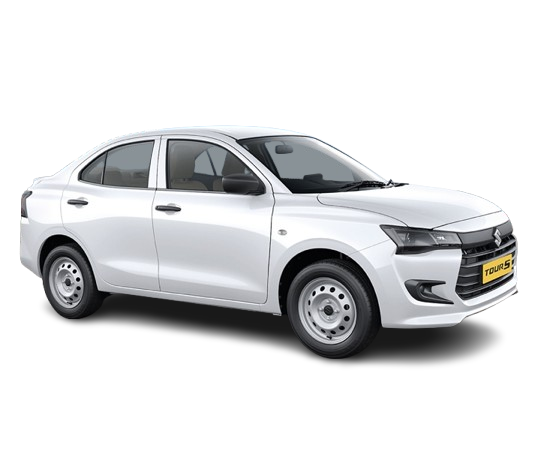
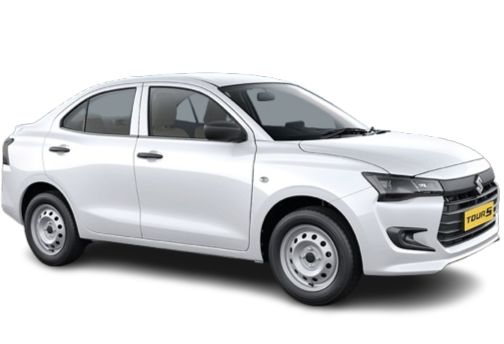
Updated hero section

diff --git a/service.html b/service.html
@@ -27,7 +27,7 @@
                 <div class="services-detailed">
                     <article class="service-item">
                         <div class="service-image">
-                            <img src="./assets/images/herobackround.jpg" 
+                            <img src="./assets/images/serviceone.jpg" 
                                  alt="Airport transfer service showing modern airport terminal" 
                                  loading="lazy"
                                  width="1900" 
@@ -139,7 +139,7 @@
                     <!-- Economy Cars -->
                     <div class="vehicle-card">
                         <div class="vehicle-img">
-                            <img src="./assets/images/swiftdziretour.png" 
+                            <img src="./assets/images/SwiftDzire.png" 
                                  alt="Swift Dzire - Economy sedan perfect for city travel" 
                                  class="vehicle-img"
                                  loading="lazy"
@@ -153,7 +153,7 @@
                                 <span><i class="fas fa-suitcase" aria-hidden="true"></i> 2 Bags</span>
                             </div>
                             <p>Perfect for short trips within the city</p>
-                            <div class="vehicle-price">₹12/km</div>
+                            <div class="vehicle-price">₹899</div>
                             <a href="https://wa.me/918618429796?text=Hi, I want to book Swift Dzire" 
                                class="fbtn" 
                                target="_blank" 
@@ -175,7 +175,7 @@
                                 <span><i class="fas fa-suitcase" aria-hidden="true"></i> 3 Bags</span>
                             </div>
                             <p>Comfortable ride for business or leisure</p>
-                            <div class="vehicle-price">₹15/km</div>
+                            <div class="vehicle-price">₹899</div>
                             <a href="https://wa.me/918618429796?text=Hi, I want to book Hyundai Accent" 
                                class="fbtn" 
                                target="_blank" 
@@ -197,7 +197,7 @@
                                 <span><i class="fas fa-suitcase" aria-hidden="true"></i> 5 Bags</span>
                             </div>
                             <p>Spacious for families or groups</p>
-                            <div class="vehicle-price">₹18/km</div>
+                            <div class="vehicle-price">₹899</div>
                             <a href="https://wa.me/918618429796?text=Hi, I want to book Toyota Innova Crysta" 
                                class="fbtn" 
                                target="_blank" 
@@ -219,8 +219,8 @@
                                 <span><i class="fas fa-users" aria-hidden="true"></i> 4 Seater</span>
                                 <span><i class="fas fa-suitcase" aria-hidden="true"></i> 3 Bags</span>
                             </div>
-                            <p>Premium experience for special occasions</p>
-                            <div class="vehicle-price">₹25/km</div>
+                            <p>  special occasions</p>
+                            <div class="vehicle-price">₹899</div>
                             <a href="https://wa.me/918618429796?text=Hi, I want to book Toyota Etios" 
                                class="fbtn" 
                                target="_blank" 
@@ -241,8 +241,8 @@
                                 <span><i class="fas fa-users" aria-hidden="true"></i> 6-7 Seater</span>
                                 <span><i class="fas fa-suitcase" aria-hidden="true"></i> 5 Bags</span>
                             </div>
-                            <p>Luxury and space combined</p>
-                            <div class="vehicle-price">₹30/km</div>
+                            <p>Large families, luxury & space</p>
+                            <div class="vehicle-price">₹1800</div>
                             <a href="https://wa.me/918618429796?text=Hi, I want to book Maruti Suzuki Ertiga" 
                                class="fbtn" 
                                target="_blank" 
@@ -251,17 +251,20 @@
                     </div>
 
                     <div class="vehicle-card">
-                        <div class="vehicle-img">
-                            <i class="fas fa-crown" aria-hidden="true"></i>
-                        </div>
+                        <img src="./assets/images/TempoTravellerNonAC.jpg" 
+                             alt="Maruti Suzuki Ertiga - 7-seater MPV for large families" 
+                             class="vehicle-img"
+                             loading="lazy"
+                             width="300" 
+                             height="200">
                         <div class="vehicle-info">
-                            <h3>Executive Car</h3>
+                            <h3>Tempo Traveller Non AC</h3>
                             <div class="vehicle-specs">
-                                <span><i class="fas fa-users" aria-hidden="true"></i> 4 Seater</span>
-                                <span><i class="fas fa-suitcase" aria-hidden="true"></i> 4 Bags</span>
+                                <span><i class="fas fa-users" aria-hidden="true"></i> 12+1 Seater</span>
+                                <span><i class="fas fa-suitcase" aria-hidden="true"></i> 8 Bags</span>
                             </div>
-                            <p>Top-tier luxury for VIP travel</p>
-                            <div class="vehicle-price">₹35/km</div>
+                            <p>Tempo Traveller Rentals</p>
+                            <div class="vehicle-price">₹3500</div>
                             <a href="https://wa.me/918618429796?text=Hi, I want to book Executive Car" 
                                class="fbtn" 
                                target="_blank" 
@@ -271,17 +274,20 @@
 
                     <!-- Group Transport -->
                     <div class="vehicle-card">
-                        <div class="vehicle-img">
-                            <i class="fas fa-bus" aria-hidden="true"></i>
-                        </div>
+                       <img src="./assets/images/hycross.jpg" 
+                             alt="Maruti Suzuki Ertiga - 7-seater MPV for large families" 
+                             class="vehicle-img"
+                             loading="lazy"
+                             width="300" 
+                             height="200">
                         <div class="vehicle-info">
-                            <h3>Mini Bus</h3>
+                            <h3>Innova Crysta Hycross AC</h3>
                             <div class="vehicle-specs">
-                                <span><i class="fas fa-users" aria-hidden="true"></i> 12 Seater</span>
-                                <span><i class="fas fa-suitcase" aria-hidden="true"></i> 8 Bags</span>
+                                <span><i class="fas fa-users" aria-hidden="true"></i> 8 Seater</span>
+                                <span><i class="fas fa-suitcase" aria-hidden="true"></i> 4 Bags</span>
                             </div>
-                            <p>Perfect for group travels and tours</p>
-                            <div class="vehicle-price">₹22/km</div>
+                            <p>Premium family travel </p>
+                            <div class="vehicle-price">₹3000</div>
                             <a href="https://wa.me/918618429796?text=Hi, I want to book Mini Bus" 
                                class="fbtn" 
                                target="_blank" 
@@ -290,17 +296,20 @@
                     </div>
 
                     <div class="vehicle-card">
-                        <div class="vehicle-img">
-                            <i class="fas fa-shuttle-van" aria-hidden="true"></i>
-                        </div>
+                        <img src="./assets/images/MahindraXylo.png" 
+                             alt="Maruti Suzuki Ertiga - 7-seater MPV for large families" 
+                             class="vehicle-img"
+                             loading="lazy"
+                             width="300" 
+                             height="200">
                         <div class="vehicle-info">
-                            <h3>Tempo Traveller</h3>
+                            <h3>Mahindra Xylo</h3>
                             <div class="vehicle-specs">
                                 <span><i class="fas fa-users" aria-hidden="true"></i> 15 Seater</span>
                                 <span><i class="fas fa-suitcase" aria-hidden="true"></i> 10 Bags</span>
                             </div>
-                            <p>Ideal for large group outings</p>
-                            <div class="vehicle-price">₹28/km</div>
+                            <p> Long family trips or airport transfers</p>
+                            <div class="vehicle-price">₹999</div>
                             <a href="https://wa.me/918618429796?text=Hi, I want to book Tempo Traveller" 
                                class="fbtn" 
                                target="_blank" 
@@ -309,17 +318,20 @@
                     </div>
 
                     <div class="vehicle-card">
-                        <div class="vehicle-img">
-                            <i class="fas fa-truck-pickup" aria-hidden="true"></i>
-                        </div>
+                        <img src="./assets/images/a.png" 
+                             alt="Maruti Suzuki Ertiga - 7-seater MPV for large families" 
+                             class="vehicle-img"
+                             loading="lazy"
+                             width="300" 
+                             height="200">
                         <div class="vehicle-info">
-                            <h3>Pickup Truck</h3>
+                            <h3>Honda Amaze</h3>
                             <div class="vehicle-specs">
                                 <span><i class="fas fa-users" aria-hidden="true"></i> 2 Seater</span>
                                 <span><i class="fas fa-box" aria-hidden="true"></i> Cargo Space</span>
                             </div>
-                            <p>For goods transportation and moving</p>
-                            <div class="vehicle-price">₹20/km</div>
+                            <p> Daily office or city commutes</p>
+                            <div class="vehicle-price">₹899</div>
                             <a href="https://wa.me/918618429796?text=Hi, I want to book Pickup Truck" 
                                class="fbtn" 
                                target="_blank" 
@@ -329,17 +341,20 @@
 
                     <!-- Eco-Friendly Options -->
                     <div class="vehicle-card">
-                        <div class="vehicle-img">
-                            <i class="fas fa-leaf" aria-hidden="true"></i>
-                        </div>
+                         <img src="./assets/images/ForceTraveller.png" 
+                             alt="Maruti Suzuki Ertiga - 7-seater MPV for large families" 
+                             class="vehicle-img"
+                             loading="lazy"
+                             width="300" 
+                             height="200">
                         <div class="vehicle-info">
-                            <h3>Electric Sedan</h3>
+                            <h3>Force Traveller (AC)</h3>
                             <div class="vehicle-specs">
                                 <span><i class="fas fa-users" aria-hidden="true"></i> 4 Seater</span>
                                 <span><i class="fas fa-battery-full" aria-hidden="true"></i> Electric</span>
                             </div>
-                            <p>Eco-friendly premium travel</p>
-                            <div class="vehicle-price">₹16/km</div>
+                            <p>Outstation group tours & school trips</p>
+                            <div class="vehicle-price">₹1799</div>
                             <a href="https://wa.me/918618429796?text=Hi, I want to book Electric Sedan" 
                                class="fbtn" 
                                target="_blank" 
@@ -348,17 +363,20 @@
                     </div>
 
                     <div class="vehicle-card">
-                        <div class="vehicle-img">
-                            <i class="fas fa-charging-station" aria-hidden="true"></i>
-                        </div>
+                         <img src="./assets/images/ToyotaFortuner.png" 
+                             alt="Maruti Suzuki Ertiga - 7-seater MPV for large families" 
+                             class="vehicle-img"
+                             loading="lazy"
+                             width="300" 
+                             height="200">
                         <div class="vehicle-info">
-                            <h3>Hybrid SUV</h3>
+                            <h3>Toyota Fortuner</h3>
                             <div class="vehicle-specs">
                                 <span><i class="fas fa-users" aria-hidden="true"></i> 6 Seater</span>
                                 <span><i class="fas fa-leaf" aria-hidden="true"></i> Hybrid</span>
                             </div>
-                            <p>Environment-friendly family travel</p>
-                            <div class="vehicle-price">₹19/km</div>
+                            <p>Luxury & VIP travel</p>
+                            <div class="vehicle-price">₹899</div>
                             <a href="https://wa.me/918618429796?text=Hi, I want to book Hybrid SUV" 
                                class="fbtn" 
                                target="_blank" 
@@ -367,17 +385,20 @@
                     </div>
 
                     <div class="vehicle-card">
-                        <div class="vehicle-img">
-                            <i class="fas fa-motorcycle" aria-hidden="true"></i>
-                        </div>
+                        <img src="./assets/images/RenaultTriber.png" 
+                             alt="Maruti Suzuki Ertiga - 7-seater MPV for large families" 
+                             class="vehicle-img"
+                             loading="lazy"
+                             width="300" 
+                             height="200">
                         <div class="vehicle-info">
-                            <h3>Bike Taxi</h3>
+                            <h3>Renault Triber</h3>
                             <div class="vehicle-specs">
                                 <span><i class="fas fa-user" aria-hidden="true"></i> 1 Passenger</span>
                                 <span><i class="fas fa-tachometer-alt" aria-hidden="true"></i> Quick</span>
                             </div>
-                            <p>Fast and economical for solo rides</p>
-                            <div class="vehicle-price">₹8/km</div>
+                            <p>Budget-friendly family travel</p>
+                            <div class="vehicle-price">₹899</div>
                             <a href="https://wa.me/918618429796?text=Hi, I want to book Bike Taxi" 
                                class="fbtn" 
                                target="_blank" 

diff --git a/assets/css/style.css b/assets/css/style.css
@@ -314,7 +314,7 @@ section {
   left: 0;
   width: 100%;
   height: 100%;
-  background: url('/assets/images/herobackround.jpg');
+  background:linear-gradient(rgba(0, 0, 0, 0.4), rgba(0, 0, 0, 0.4)), url('/assets/images/herobackround.jpg');
   z-index: 1;
   background-size:cover;
   background-position: bottom ;
@@ -337,15 +337,17 @@ section {
   margin-bottom: 1.5rem;
   line-height: 1.2;
   text-shadow: 0 2px 4px rgba(0, 0, 0, 0.3);
+ 
    
 }
 
 .hero-subtitle {
   font-size: clamp(1rem, 2.5vw, 1.5rem);
   margin-bottom: 2.5rem;
-  opacity: 0.9;
-  font-weight: 300;
+  opacity: 1;
+  font-weight: 400;
   text-shadow: 0 1px 2px rgba(0, 0, 0, 0.3);
+   
 }
 
 .hero-buttons {
@@ -1219,6 +1221,20 @@ section {
     flex-direction: column;
     align-items: center;
   }
+
+  .hero-background {
+  position: absolute;
+  top: 0;
+  left: 0;
+  width: 100%;
+  height: 100%;
+  background:linear-gradient(rgba(0, 0, 0, 0.1), rgba(0, 0, 0, 0.1)), url('/assets/images/herobackround.jpg');
+  z-index: 1;
+  background-size:cover;
+  background-position: bottom ;
+  background-attachment: scroll;
+  background-repeat: no-repeat ;
+} 
 
   
 

diff --git a/index.html b/index.html
@@ -164,7 +164,7 @@
                 <div class="fleet-grid">
                     <article class="vehicle-card">
                         <div class="vehicle-img">
-                            <img src="./assets/images/swiftdziretour.png" 
+                            <img src="./assets/images/SwiftDzire.png" 
                                  alt="Swift Dzire - 4 seater sedan car" 
                                  loading="lazy"
                                  width="300" 
